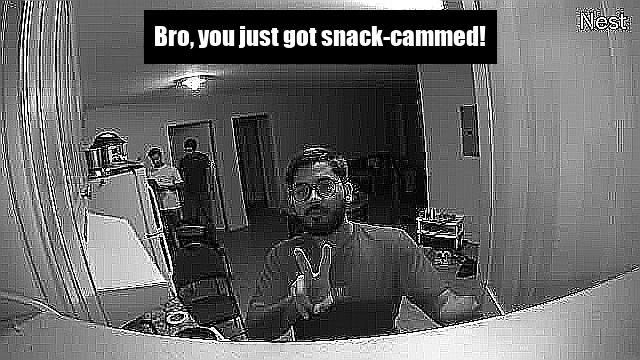
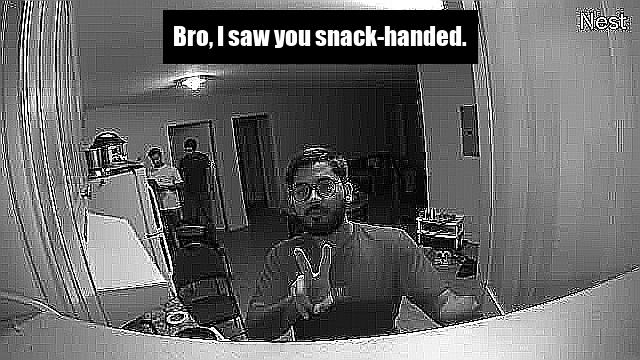
Upped memebot temperature

Changed region(s): [[0.2188, 0.0306, 0.7812, 0.1833]]

diff --git a/meme-gen/memeify.py b/meme-gen/memeify.py
@@ -8,10 +8,11 @@ def generate_caption(image_description):
     # Describe the image to the AI
     response = cohere_client.chat(
         model="command-r-plus",  # Choose the appropriate model size, e.g., "xlarge"
+        temperature=1,
         message=f"Write a 4-10 word Gen Z urban meme caption based on this image description: {image_description}. Avoid the phrase 'Snack thief'. Some examples to base your response on: 'When your boy is a raccoon', 'Unemployed friends be like:', 'Bro thought he was slick'. Don't put it in quotes.",
     )
     caption = response.text
-    print(caption)
+    #print(caption)
     return caption
 
 
